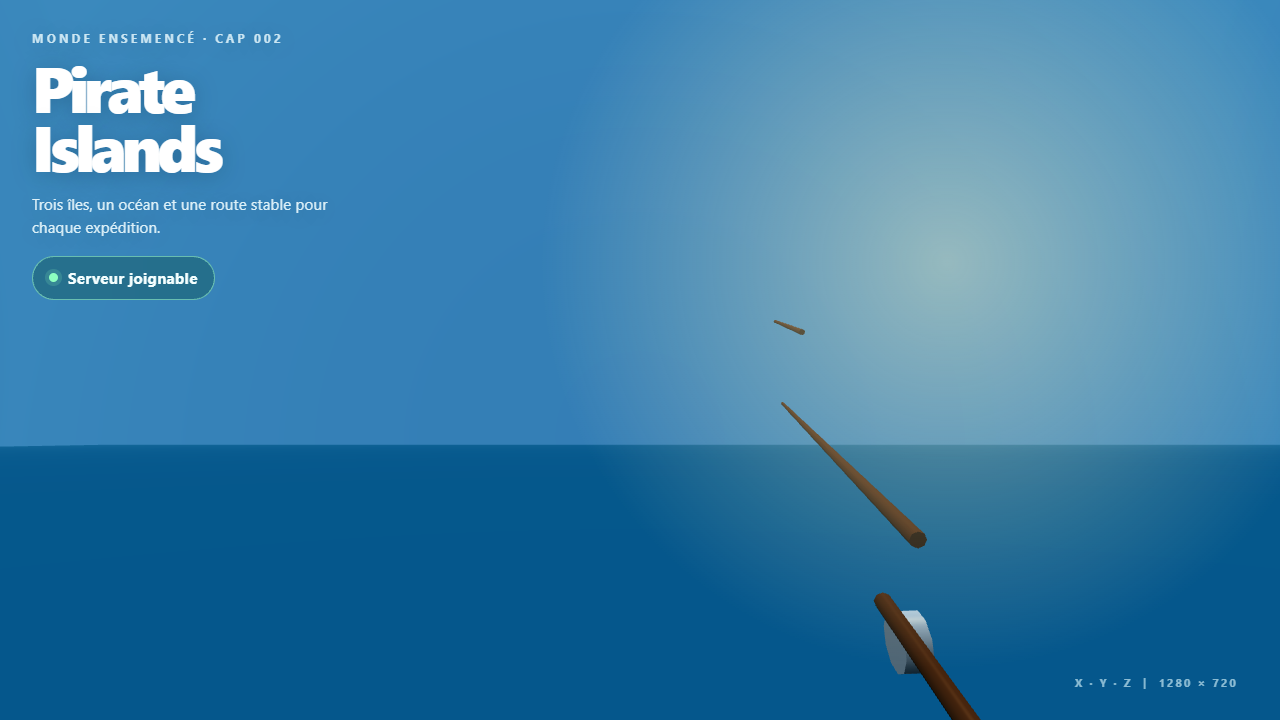
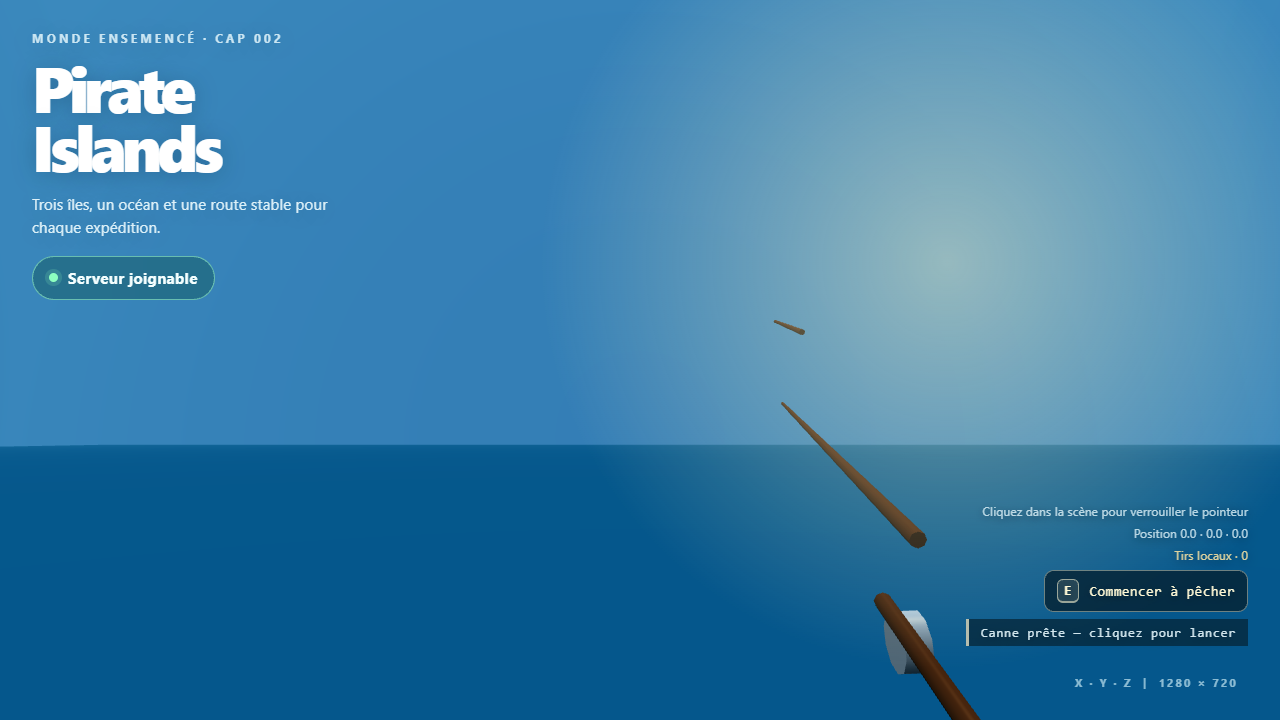
peche(canne): durcir l'exclusivité et la preuve après revue
- Garde de séquence : le contrôleur rejette un état serveur obsolète (séquence
  antérieure) et pas seulement un temps courant antérieur.
- Routage extrait dans pistoletPeutTirer : main.ts et les tests partagent la
  même décision d'exclusivité.
- HUD de pêche réellement visible en mode presentation (ath affiché) et
  invité/statut vérifiés par toBeVisible en Playwright.
- Tests ajoutés : état serveur de séquence obsolète, routage simultané via
  pistoletPeutTirer, visibilité DOM du harnais.

Changed region(s): [[0.75, 0.7028, 1.0, 0.9167]]

diff --git a/tests/canne-controleur.test.ts b/tests/canne-controleur.test.ts
@@ -220,6 +220,56 @@ describe('contrôleur de canne locale', () => {
     expect(() => gestionnaire.actualiser({ tirer: false, interagir: false })).not.toThrow();
     expect(gestionnaire.lireEtat().vue).toBe('remontee');
   });
+
+  it('rejette un état serveur obsolète de séquence antérieure sans régresser', () => {
+    const zone = zoneDeMonde();
+    const monde = genererMonde('peche-mvp-v1');
+    const adaptateur = construireAdaptateurPecheCoeurJeu(monde);
+    const maintenant = 1000;
+    const lireHorodatage = (): number => maintenant;
+    const gestionnaire = new GestionnaireCanne({
+      lireZone: () => zone,
+      lirePosition: () => ({ x: zone.centre.x, y: 0, z: zone.centre.z }),
+      lireHorodatage,
+      graine: 'peche-mvp-v1',
+      interfacePeche: {
+        afficherInvite: () => undefined,
+        afficherStatut: () => undefined,
+        afficherResultat: () => undefined,
+      },
+      adaptateur,
+    });
+    gestionnaire.actualiser({ tirer: false, interagir: true });
+    gestionnaire.actualiser({ tirer: true, interagir: false });
+    const lance = gestionnaire.lireEtat();
+    expect(lance.sequence).toBe(1);
+
+    // Un adaptateur menteur renvoie un état avec une séquence antérieure (0) :
+    // le contrôleur doit l'ignorer et ne pas régresser.
+    const obsolète = adaptateur.avancer(lance.peche, maintenant);
+    const menteur = {
+      ...adaptateur,
+      avancer: () => ({ ...obsolète, sequence: 0 }),
+    };
+    const faux = new GestionnaireCanne({
+      lireZone: () => zone,
+      lirePosition: () => ({ x: zone.centre.x, y: 0, z: zone.centre.z }),
+      lireHorodatage,
+      graine: 'peche-mvp-v1',
+      interfacePeche: {
+        afficherInvite: () => undefined,
+        afficherStatut: () => undefined,
+        afficherResultat: () => undefined,
+      },
+      adaptateur: menteur,
+    });
+    faux.actualiser({ tirer: false, interagir: true });
+    faux.actualiser({ tirer: true, interagir: false });
+    const avant = faux.lireEtat();
+    expect(() => faux.actualiser({ tirer: false, interagir: false })).not.toThrow();
+    expect(faux.lireEtat().sequence).toBeGreaterThanOrEqual(avant.sequence);
+    expect(faux.lireEtat().peche.sequence).toBeGreaterThanOrEqual(avant.peche.sequence);
+  });
 });
 
 function delaiPredit(): number {

diff --git a/tests/canne-routage.test.ts b/tests/canne-routage.test.ts
@@ -6,6 +6,7 @@ import {
   construireAdaptateurPecheCoeurJeu,
   GestionnaireCanne,
 } from '../apps/client/src/jeu/canne';
+import { pistoletPeutTirer } from '../apps/client/src/jeu/mode-peche';
 import { GestionnaireTirLocal, type IntentionTir } from '../apps/client/src/jeu/tir';
 
 function zoneDeMonde(): ZonePeche {
@@ -107,10 +108,32 @@ describe('routage exclusif des actions tirer', () => {
     gestionnaireCanne.actualiser({ tirer: true, interagir: true });
     const modeActif = gestionnaireCanne.estModeActif();
     expect(modeActif).toBe(true);
-    if (!modeActif) {
+    // Le routage réel de production passe par `pistoletPeutTirer`.
+    const pistoletAutorisé = pistoletPeutTirer(modeActif);
+    if (pistoletAutorisé) {
       gestionnaireTir.actualiser(true, 500);
     }
     expect(intentions).toHaveLength(0);
     expect(gestionnaireTir.lireCompteur()).toBe(0);
+
+    // Hors mode, le même routage autorise le pistolet.
+    const autreCanne = new GestionnaireCanne({
+      lireZone: () => undefined,
+      lirePosition: () => ({ x: 0, y: 0, z: 0 }),
+      lireHorodatage: () => 500,
+      graine: 'peche-mvp-v1',
+      interfacePeche: {
+        afficherInvite: () => undefined,
+        afficherStatut: () => undefined,
+        afficherResultat: () => undefined,
+      },
+      adaptateur: construireAdaptateurPecheCoeurJeu(monde),
+    });
+    autreCanne.actualiser({ tirer: true, interagir: false });
+    expect(autreCanne.estModeActif()).toBe(false);
+    if (pistoletPeutTirer(autreCanne.estModeActif())) {
+      gestionnaireTir.actualiser(true, 500);
+    }
+    expect(intentions).toHaveLength(1);
   });
 });

diff --git a/apps/client/src/main.ts b/apps/client/src/main.ts
@@ -61,7 +61,7 @@ import { construireHarnaisPeche } from './interface/harnais-peche.js';
 import { monterPresentationPeche } from './interface/presenter-peche.js';
 import { construireHarnaisCanne } from './interface/harnais-canne.js';
 import { monterPresentationCanne } from './interface/presenter-canne.js';
-import { construireModePeche, type ModePeche } from './jeu/mode-peche.js';
+import { construireModePeche, pistoletPeutTirer, type ModePeche } from './jeu/mode-peche.js';
 import { construirePresentationCanne } from './jeu/presentation-canne.js';
 import {
   connecterSalleJeu,
@@ -1195,8 +1195,9 @@ function construireScene(): JeuClient | undefined {
         // `actualiser` : dès que le mode est actif, `tirer` est consommé par la
         // canne et le pistolet ne doit jamais recevoir l'action du même cadre.
         const modePecheActif = modePeche.estModeActif();
-        pistolet.setVisible(!modePecheActif);
-        if (!modePecheActif) {
+        const pistoletAutorisé = pistoletPeutTirer(modePecheActif);
+        pistolet.setVisible(pistoletAutorisé);
+        if (pistoletAutorisé) {
           gestionnaireTir.actualiser(dernierEtatEntrees.tirer, tempsTir);
         }
         pistolet.actualiser(tempsTir);

diff --git a/apps/client/src/jeu/canne.ts b/apps/client/src/jeu/canne.ts
@@ -352,8 +352,14 @@ export class GestionnaireCanne {
       return;
     }
     const suit = this.adaptateur.avancer(this.etat.peche, temps);
-    if (suit.tempsCourantMs < this.etat.peche.tempsCourantMs) {
-      // État serveur en retard : on ignore pour ne pas régresser.
+    // État serveur en retard ou obsolète : on ignore pour ne pas régresser.
+    // Un retour est obsolète s'il porte une séquence plus ancienne, ou la même
+    // séquence avec un temps courant antérieur.
+    if (
+      suit.sequence < this.etat.peche.sequence ||
+      (suit.sequence === this.etat.peche.sequence &&
+        suit.tempsCourantMs < this.etat.peche.tempsCourantMs)
+    ) {
       return;
     }
     if (suit.phase === 'morsure' && this.etat.vue !== 'morsure') {

diff --git a/apps/client/src/jeu/mode-peche.ts b/apps/client/src/jeu/mode-peche.ts
@@ -31,6 +31,15 @@ export interface ModePeche {
   readonly canneBabylon: CanneBabylon;
 }
 
+/**
+ * Décide si le pistolet doit recevoir `tirer` après actualisation du mode.
+ * Le pistolet n'est armé que lorsque le mode pêche est inactif : dès qu'on
+ * entre ou reste en mode pêche, `tirer` est consommé par la canne.
+ */
+export function pistoletPeutTirer(modeActif: boolean): boolean {
+  return !modeActif;
+}
+
 function zoneProcheDe(position: Vecteur3, zones: readonly ZonePeche[]): ZonePeche | undefined {
   for (const zone of zones) {
     const distance = Math.hypot(position.x - zone.centre.x, position.z - zone.centre.z);

diff --git a/apps/client/src/style.css b/apps/client/src/style.css
@@ -574,6 +574,11 @@ h1 {
   display: grid;
 }
 
+.scene-shell[data-mode='presentation'][data-presentation='canne-peche'] .ath {
+  display: grid;
+  bottom: 74px;
+}
+
 .ath p {
   margin: 0;
 }
